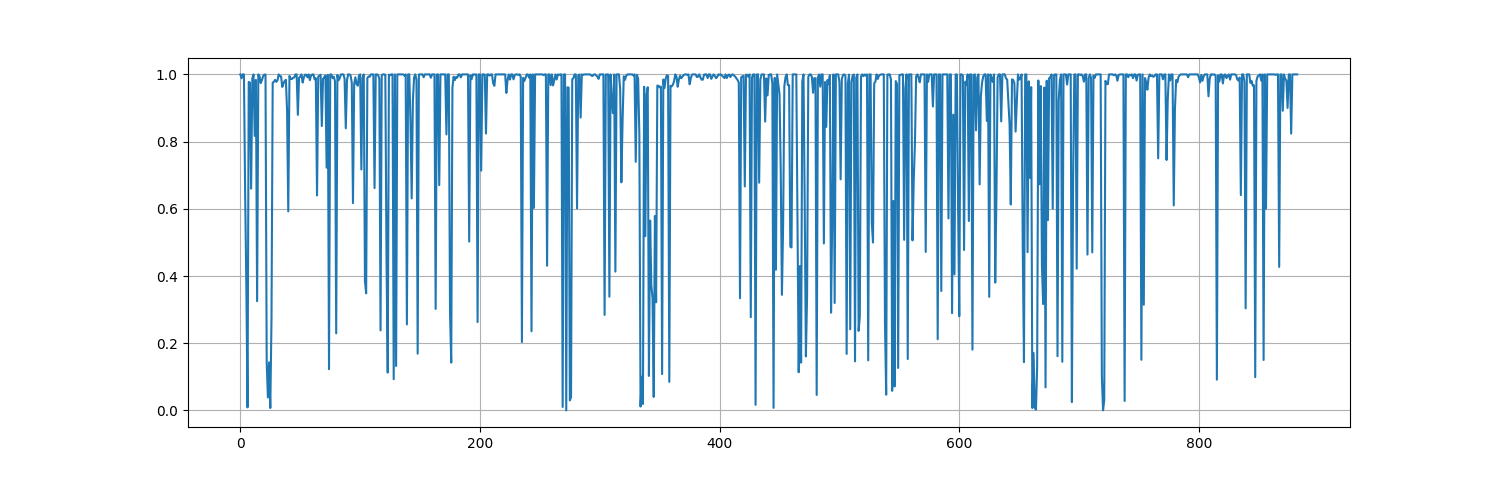
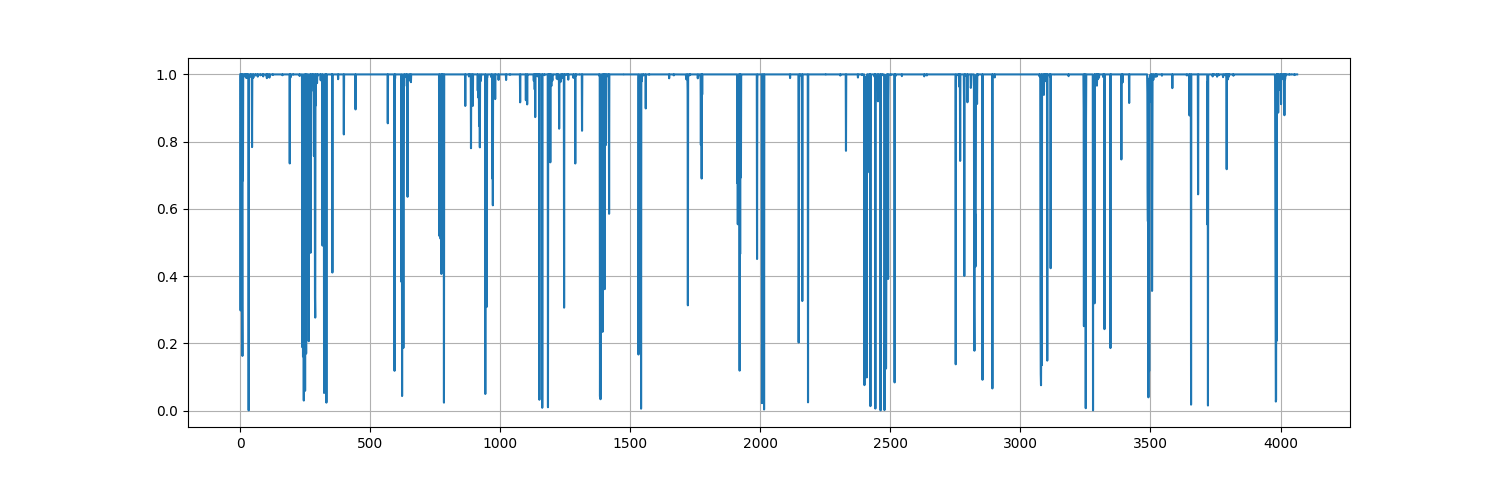
Update

diff --git a/prediction_experiments.py b/prediction_experiments.py
@@ -7,13 +7,14 @@ import os
 import argparse
 from pmixed import PMixED 
 from datasets import load_dataset
-from fine_tune_ensemble import group_text_preprocess, pubmed_preprocess
+from fine_tune_ensemble import group_text_preprocess, pubmed_preprocess, pubmedqa_preprocess
 from peft import PeftModel
 import copy
 import tqdm
 import numpy as np
 import gc
 
+torch.set_num_threads(1)
 
 def main(args):
     alpha = args.alpha
@@ -49,17 +50,25 @@ def main(args):
                            accounting_method=args.accounting_method
     )
     #fine_tuned_model_dir = os.path.join("models", f"lora-{args.model_name}-finetuned-{dataset_name}")
+    '''
     fine_tuned_model_dir = os.path.join("models", f"lora-{args.model_name}-finetuned-wikitext-103-raw-v1")
     fine_tuned_model = PeftModel.from_pretrained(copy.deepcopy(pub_model),
                                                  fine_tuned_model_dir,
                                                  pad_token_id=tokenizer.eos_token_id).to(
                                                  args.device)
+    '''
     dp_fine_tuned_model = 0
     dp_fine_tuned_model = torch.load(os.path.join("models", f"lora-{args.model_name}-8.0-dp-finetuned-{dataset_name}.pt")).to(args.device)
     #dp_fine_tuned_model = torch.load(os.path.join("models", f"lora-{args.model_name}-8.0-dp-finetuned-wikitext.pt")).to(args.device)
-    
+    fine_tuned_model = dp_fine_tuned_model 
+
     dataset_name = "ccdv/mediasum" if args.dataset == "mediasum" else args.dataset
+    if dataset_name == "qiaojin/PubMedQA":
+        args.subset = "pqa_unlabeled"
     dataset = load_dataset(dataset_name, args.subset)
+
+    if args.dataset == "qiaojin/PubMedQA":
+        dataset = pubmedqa_preprocess(dataset['train'], 'test')
 
     preprocess_function = group_text_preprocess
     header = 'document' if args.dataset == "mediasum" else 'text'
@@ -104,8 +113,8 @@ def main(args):
                     k += 1
                     #priv_dists_token = [priv_dist.cpu() for priv_dist in priv_dists_token]
                     del ensemble_output_dist, priv_dists_token, pub_dist_token
-                    torch.cuda.empty_cache()
-                    gc.collect()
+                    #torch.cuda.empty_cache()
+                    #gc.collect()
                     #print("Smooth Sensitivity", priv_ensemble.ss)
 
                 ensemble_logits = torch.stack(ensemble_logits)
@@ -129,7 +138,6 @@ def main(args):
         dp_fine_tuned_neg_log_likelihood.append(calc_loss(dp_fine_tuned_output_logits, labels))
 
         del pub_output_logits, fine_tuned_output_logits, dp_fine_tuned_output_logits
-        torch.cuda.empty_cache()
 
     pre_trained_ppl = torch.exp(torch.stack(pub_neg_log_likelihood))
     fine_tuned_ppl = torch.exp(torch.stack(fine_tuned_neg_log_likelihood))

diff --git a/pmixed.py b/pmixed.py
@@ -103,7 +103,6 @@ class PMixED():
             max_loss = max(max_loss, eps)
             del p_i, eps
         del p
-        torch.cuda.empty_cache()
         return max_loss
 
     @staticmethod
@@ -123,8 +122,10 @@ class PMixED():
 
     @staticmethod
     def RDSym(p_mix, p_pub, alpha):
-        return  max(PMixED.renyiDiv(p_mix.type(torch.float64), p_pub.type(torch.float64), alpha=alpha).type(torch.float32),
-                   PMixED.renyiDiv(p_pub.type(torch.float64), p_mix.type(torch.float64), alpha=alpha).type(torch.float32)).item()
+        #return  max(PMixED.renyiDiv(p_mix.type(torch.float32), p_pub.type(torch.float32), alpha=alpha).type(torch.float32),
+        #           PMixED.renyiDiv(p_pub.type(torch.float32), p_mix.type(torch.float64), alpha=alpha).type(torch.float32)).item()
+        return  max(PMixED.renyiDiv(p_mix, p_pub, alpha=alpha),
+                   PMixED.renyiDiv(p_pub, p_mix, alpha=alpha)).item()
 
     def lambda_solver_bisection(self, p, p_pub):
         def f(lambd):
@@ -197,7 +198,6 @@ class PMixED():
                                   trunc_pub_output_dist[idxs],
                                   self.alpha)      
         del trunc_priv_output_dist, trunc_pub_output_dist, mix_dists, pub_logits, idxs_remov, priv_logits, min_output_dist, idxs, idx_noise
-        torch.cuda.empty_cache()
         return rd_noisy, noise
 
     def update_privacy_loss(self, sample=False, mixed_dists=None, p_pub=None, **kwargs):
@@ -224,7 +224,6 @@ class PMixED():
                     
         self.priv_loss += loss
         del loss
-        torch.cuda.empty_cache()
 
     def gen_output_dist(self, context):
         priv_dists = []
@@ -293,7 +292,6 @@ class PMixED():
                                  p_pub=pub_dist)
         output_dist = mixed_dists.mean(dim=0)
         del mixed_dists
-        torch.cuda.empty_cache()
         return output_dist
 
     def mix(self, p, p_prime, lambd=0.5):

diff --git a/fine_tune_ensemble.py b/fine_tune_ensemble.py
@@ -19,7 +19,7 @@ import argparse
 import tqdm
 import math
 
-START = 40 
+START = 0 
 
 def sample_level_tokenize_function(examples, tokenizer):
     return tokenizer(examples["text"])
@@ -46,6 +46,13 @@ def pubmed_preprocess(data_path):
     data_test_path = os.path.join(test_dir, "data-00000-of-00001.arrow")
     data_files = {"train": data_train_path, "test": data_test_path}
     return load_dataset("arrow", data_files=data_files)
+
+def pubmedqa_preprocess(dataset, header="train"):
+    data = {"text": []}
+    for i, row in enumerate(dataset):
+        context= ''.join(c for c in row['context']['contexts'])
+        data['text'].append(context)
+    return DatasetDict({header: Dataset.from_dict(data)})
 
 def indiv_text_preprocess(examples, tokenizer, block_size, label_column_names):
     batch = []
@@ -81,8 +88,10 @@ def init_training(args):
         dataset = load_dataset(dataset_name, args.subset)
 
     preprocess_function = indiv_text_preprocess if args.dataset == 'yelp' else group_text_preprocess
-    label_column_names = dataset.column_names['train']
     header = 'document' if args.dataset == "mediasum" else 'text'
+    if args.dataset == "qiaojin/PubMedQA":
+        dataset = pubmedqa_preprocess(dataset['train'])
+    label_column_names = dataset.column_names['train']
 
     tokenized_dataset = dataset.map(preprocess_function,
                                     fn_kwargs={"tokenizer": tokenizer,
